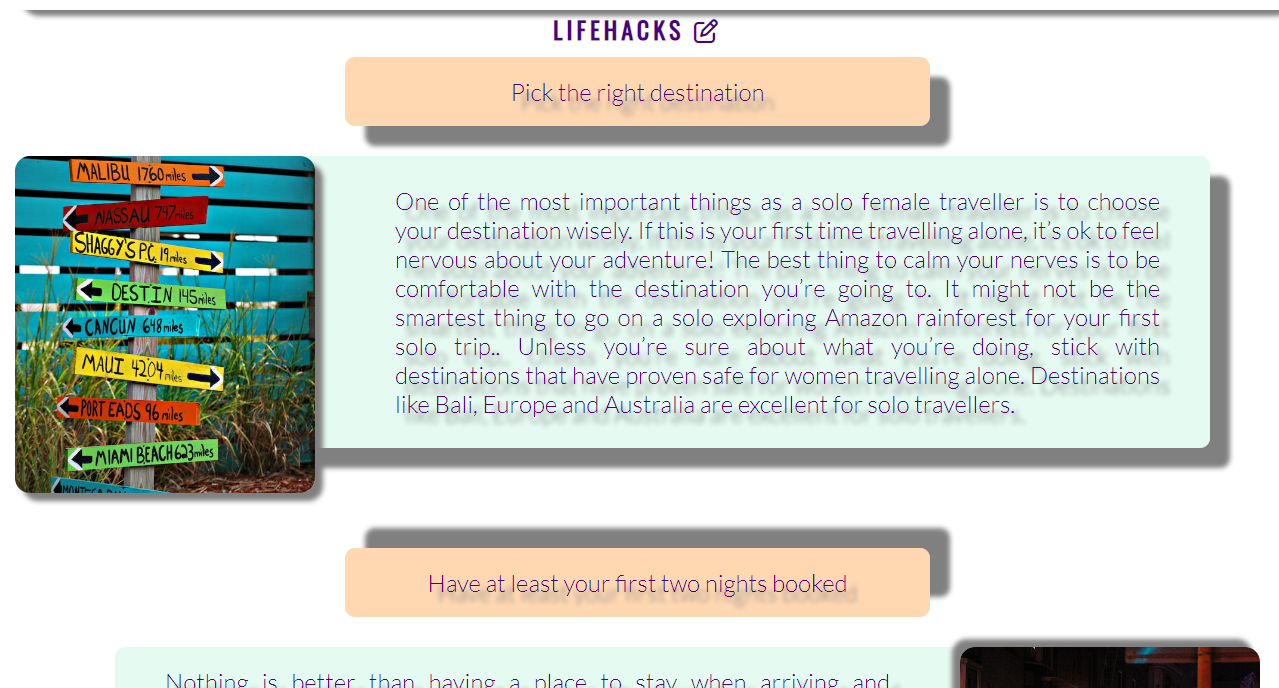
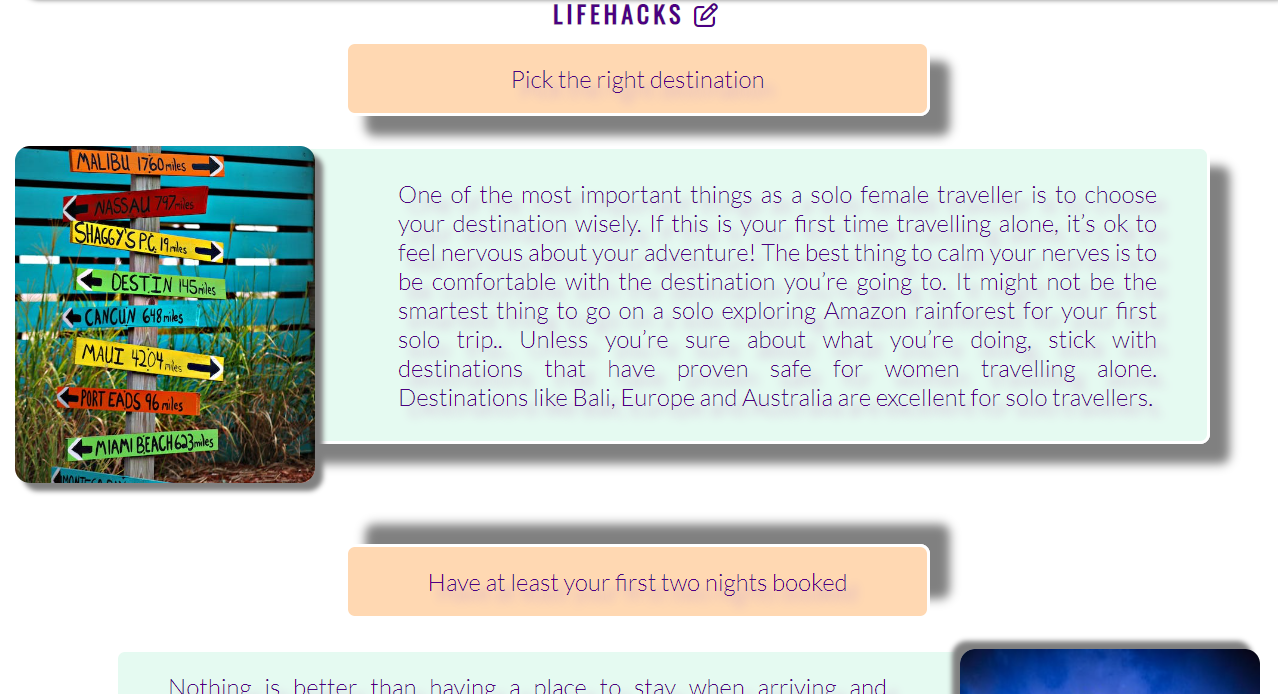
Add style to lifehack section and community-trip section and add info to readme file.

diff --git a/assets/css/style.css b/assets/css/style.css
@@ -105,7 +105,7 @@ h2 {
 }
 
 #main-theme {
-    border: 2px solid white;
+    border: 3px solid white;
     border-radius: 20px;
     box-shadow: 20px 20px 5px gray;
     margin: 5px;
@@ -141,6 +141,7 @@ h2 {
     text-align: justify;
     padding-left: 250px;
     padding-right: 50px;
+    border: 3px solid white;
 
 }
 
@@ -159,6 +160,7 @@ h2 {
     padding-left: 50px;
     padding-right: 320px;
     text-align: justify;
+    border: 3px solid white;
 }
 
 .img-research {
@@ -177,6 +179,7 @@ h2 {
     padding-left: 250px;
     padding-right: 70px;
     text-align: justify;
+    border: 3px solid white;
 }
 
 .img-wifi {
@@ -195,6 +198,7 @@ h2 {
     padding-left: 70px;
     padding-right: 300px;
     text-align: justify;
+    border: 3px solid white;
 }
 
 .img-passport {
@@ -213,6 +217,7 @@ h2 {
     padding-left: 150px;
     padding-right: 70px;
     text-align: justify;
+    border: 3px solid white;
 }
 
 .img-suitcase {
@@ -231,6 +236,7 @@ h2 {
     text-align: justify;
     padding-left: 50px;
     padding-right: 250px;
+    border: 3px solid white;
 }
 
 .img-danger {
@@ -246,12 +252,13 @@ h2 {
     margin-right: 150px;
     background-color: rgba(170, 240, 209, .3);
     margin-bottom: 250px;
+    border: 3px solid white;
 }
 
 .tips p {
-    border: 1px solid #4B0082;
+    border: 3px solid white;
+    ;
     border-radius: 10px;
-    border-style: none;
     box-shadow: 20px 20px 10px gray;
     color: #4B0082;
     text-align: center;
@@ -265,9 +272,9 @@ h2 {
 }
 
 .second-tips p {
-    border: 1px solid #4B0082;
+    border: 3px solid white;
+    ;
     border-radius: 10px;
-    border-style: none;
     box-shadow: 20px -20px 10px gray;
     color: #4B0082;
     text-align: center;
@@ -281,9 +288,9 @@ h2 {
 }
 
 .third-tip p {
-    border: 1px solid #4B0082;
+    border: 3px solid white;
+    ;
     border-radius: 10px;
-    border-style: none;
     box-shadow: 20px 20px 5px gray;
     color: #4B0082;
     text-align: center;
@@ -297,9 +304,8 @@ h2 {
 }
 
 .fourth-tip p {
-    border: 1px solid #4B0082;
+    border: 3px solid white;
     border-radius: 10px;
-    border-style: none;
     box-shadow: 20px 20px 5px gray;
     color: #4B0082;
     text-align: center;
@@ -313,9 +319,9 @@ h2 {
 }
 
 .fifth-tip p {
-    border: 1px solid #4B0082;
+    border: 3px solid white;
+    ;
     border-radius: 10px;
-    border-style: none;
     box-shadow: 20px 20px 5px gray;
     color: #4B0082;
     text-align: center;
@@ -329,9 +335,9 @@ h2 {
 }
 
 .sixth-tip p {
-    border: 1px solid #4B0082;
+    border: 3px solid white;
+    ;
     border-radius: 10px;
-    border-style: none;
     box-shadow: 20px 20px 5px gray;
     color: #4B0082;
     text-align: center;
@@ -345,9 +351,8 @@ h2 {
 }
 
 .seventh-tip p {
-    border: 1px solid #4B0082;
+    border: 3px solid white;
     border-radius: 10px;
-    border-style: none;
     box-shadow: 20px 20px 5px gray;
     color: #4B0082;
     text-align: center;
@@ -358,6 +363,7 @@ h2 {
     margin-left: 350px;
     margin-right: 350px;
     margin-top: 200px;
+
 }
 
 /* community trips */
@@ -374,6 +380,7 @@ h2 {
     border-radius: 15px;
     text-shadow: 5px 5px 8px gray;
 
+
 }
 
 #text-trips {
@@ -386,6 +393,7 @@ h2 {
     margin-right: 10px;
     margin-bottom: 15px;
     background: #AAF0D1;
+    border: 3px solid white;
 }
 
 #own-choice {
@@ -438,8 +446,7 @@ h2 {
 #top-about-text {
     color: #4B0082;
     font-size: 150%;
-    border: 1px solid #AAF0D1;
-    border-style: none;
+    border: 3px solid white;
     margin-left: 200px;
     margin-right: 300px;
     margin-bottom: 15px;
@@ -449,14 +456,13 @@ h2 {
     box-shadow: 5px 5px 8px gray;
     text-shadow: 5px 5px 8px gray;
     text-align: center;
-    
+
 }
 
 #center-about-text {
     color: #4B0082;
     font-size: 150%;
-    border: 1px solid #AAF0D1;
-    border-style: none;
+    border: 3px solid white;
     margin-left: 200px;
     margin-right: 300px;
     margin-bottom: 15px;
@@ -471,8 +477,7 @@ h2 {
 #bottom-about-text {
     color: #4B0082;
     font-size: 150%;
-    border: 1px solid #AAF0D1;
-    border-style: none;
+    border: 3px solid white;
     margin-left: 200px;
     margin-right: 300px;
     margin-bottom: 15px;
@@ -519,6 +524,7 @@ form {
     border-style: none;
     box-shadow: 15px 15px 5px gray;
     border-radius: 15px;
+    border: 3px solid white;
     text-shadow: 5px 5px 8px gray;
     margin-left: 50px;
     margin-right: 50px;
@@ -583,6 +589,7 @@ footer #social-links {
     background: #AAF0D1;
     text-transform: uppercase;
     font-size: 110%;
+    border: 3px solid white;
     box-shadow: -15px -15px 10px gray;
 }
 

diff --git a/index.html b/index.html
@@ -75,7 +75,7 @@
                     for
                     women travelling alone.
 
-                    Destinations like Bali, Europe and Australia are excellent for solo travellers. 
+                    Destinations like Bali, Europe and Australia are excellent for solo travellers.
                 </p>
             </div>
             <div class="second-tips">
@@ -177,20 +177,20 @@
         <div id="top-about"></div>
         <!-- link to the page that gives info about the trip -->
         <div id="top-about-text"> <a href="https://wikitravel.org/en/Amsterdam" aria-label="Read more about Amsterdam"
-                target="_blank" rel="noopener"> Liberal and provocative Amsterdam in friendly and safe
+                target="_blank" rel="noopener"> liberal and provocative Amsterdam in safe friendly
                 company </a>
         </div>
         <div id="center-about"></div>
         <div id="center-about-text">
             <!-- link to the page that gives info about the trip -->
             <a href="https://wikitravel.org/en/Iceland" aria-label="Read more about Iceland" target="_blank"
-                rel="noopener"> Winter fairy-tale in Iceland </a>
+                rel="noopener"> winter fairytale in Iceland </a>
         </div>
         <div id="bottom-about"></div>
         <div id="bottom-about-text">
             <!-- link to the page that gives info about the trip -->
             <a href="https://wikitravel.org/en/Bali" aria-label="Read more about Bali" target="_blank" rel="noopener">
-                Recharge and relax in Bali </a>
+                recharge and relax in Bali </a>
         </div>
         <!--Let's connect form section-->
     </section>

diff --git a/README.md b/README.md
@@ -27,11 +27,6 @@ Users of this website will be able to find all the information they need about s
 
     ---
 
-### Development
-
-  * I started with creating html page and adding structure to all the sections: creating navigation menu, logo and main-theme, after that - Lifehack section, community-trip section, form and finally the footer with the contact info. 
-   * The final stage is to add some style to all the sections and writing Readme file.
-
 ### Future Features
  * Community trips section
     * This section will have links to pages that give actual information (program, price, info of groups and places to stay) of the trip.
@@ -66,7 +61,6 @@ Users of this website will be able to find all the information they need about s
   * Community Trips section gives examples of trips organised and provided by community.
    * This section has images of provided trips and links that allow User to find out more information about chosen trip or to get in touch and organize exclusive tours.
    <img src="./assets/css/images/community-trips.png" alt="community-trips screenshot">
-
    ---
 * ### Let's Connect
    * Let's Connect section has a form to collect details from women so they can choose travel partner from The Community.
